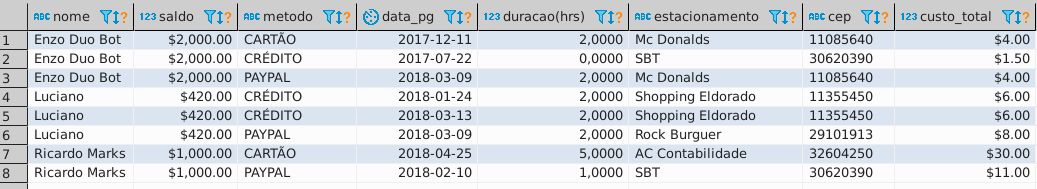
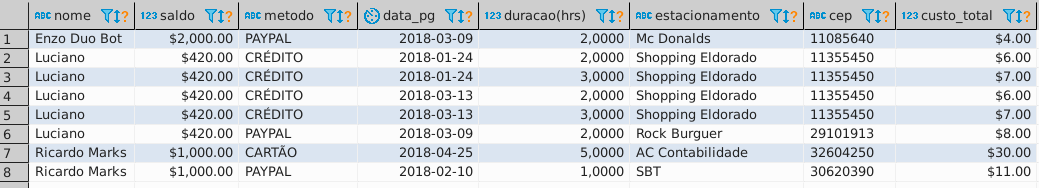
9.6 - a) junção de todas as tabelas

diff --git a/README.md b/README.md
@@ -480,9 +480,9 @@ Updates:<br>
          join vaga as VAG on (VAG.id = RES.fk_vagas_id)
          join sensor as SENS on (SENS.fk_vagas_id = VAG.id)
          join tipo_sensor as TIP_SENS on (TIP_SENS.id = SENS.fk_tipo_sensor_id)
-         join estacionamento as ESTAC on (ESTAC.id = VAG.fk_estacionamento_id and ESTAC.id = PG.fk_estacionamento_id)
+         join estacionamento as ESTAC on (ESTAC.id = VAG.fk_estacionamento_idwhere extract(year from RES."data") = 2018 and ESTAC.id = PG.fk_estacionamento_id)
          join endereco as ENDE on (ENDE.id = ESTAC.fk_endereco_id)
-         where extract(year from RES."data") = 2018
+         where extract(year from PG."data") = 2018
 
 
 ![join_todas as tableas](https://github.com/GrupoDaVaga/trab01/blob/master/Scripts%20SQL/9%2C6/alljoin.png)
